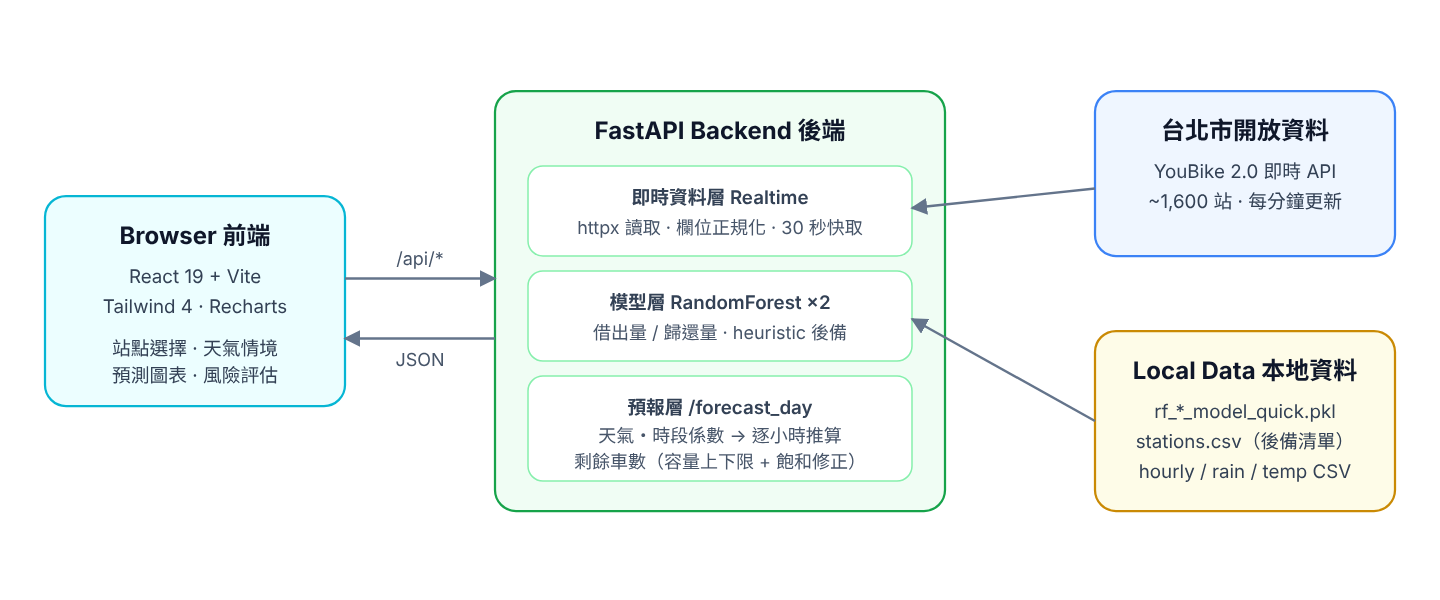
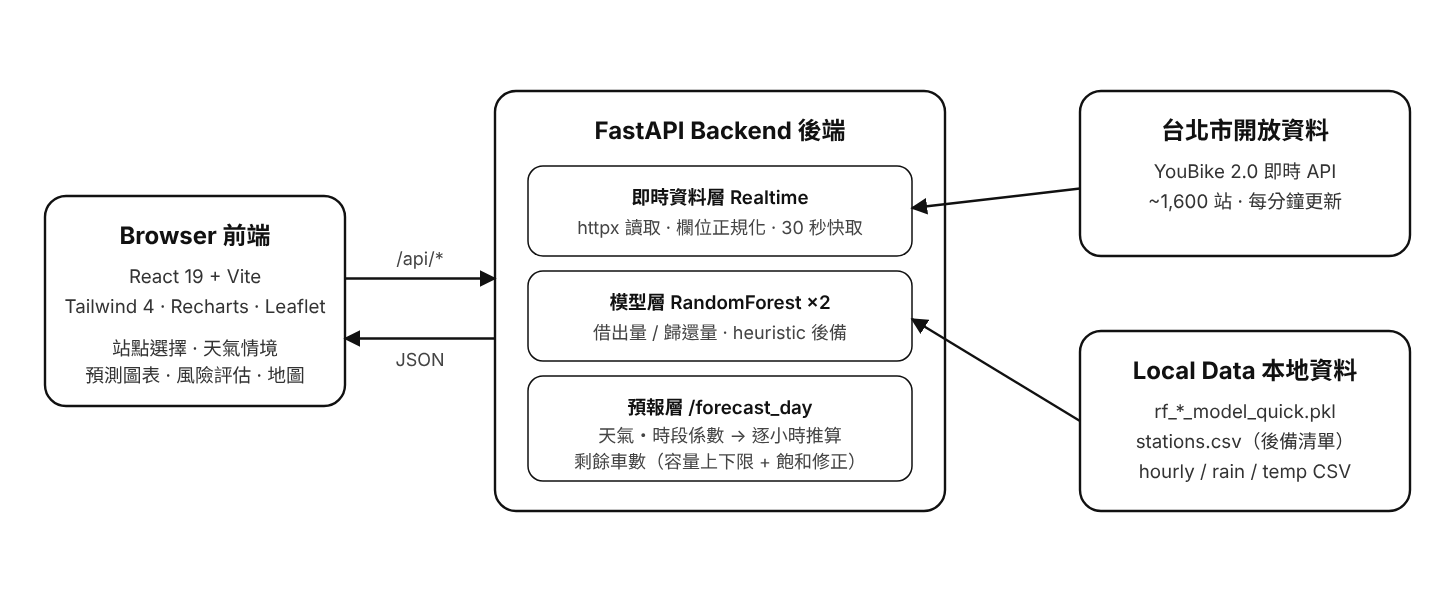
Black-and-white architecture diagrams (zh/en); drop disclaimer line

diff --git a/README.en.md b/README.en.md
@@ -34,7 +34,7 @@ Riders often arrive at a YouBike station to find no bikes, or no empty dock to r
 
 ## Architecture
 
-<img src="docs/architecture.png" width="100%" alt="Architecture">
+<img src="docs/architecture.en.png" width="100%" alt="Architecture">
 
 ### How the forecast works
 
@@ -125,5 +125,3 @@ youbike-predictor/
 ## Author
 
 **Yu-Kuan Liu** — Dept. of Electronic Engineering, National United University
-
-> For competition / educational use. Predictions are not guaranteed to be accurate.

diff --git a/README.md b/README.md
@@ -125,5 +125,3 @@ youbike-predictor/
 ## 作者
 
 **劉禹寬**：國立聯合大學 電子工程學系
-
-> 本專案為競賽與教學用途，不保證預測準確性。
